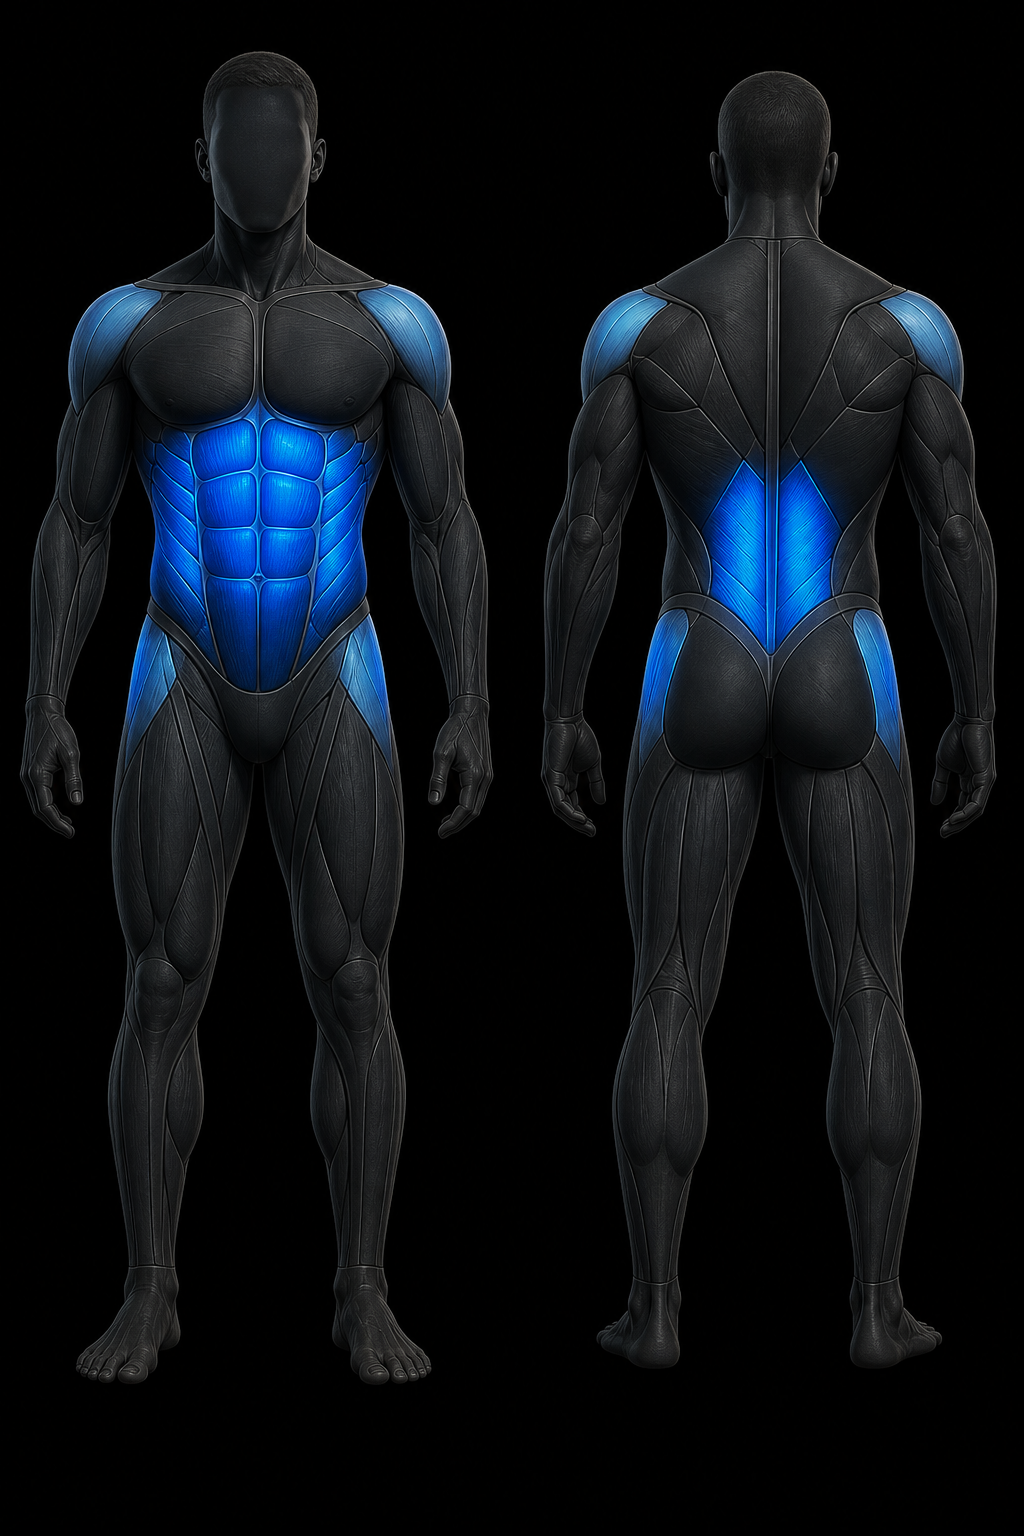
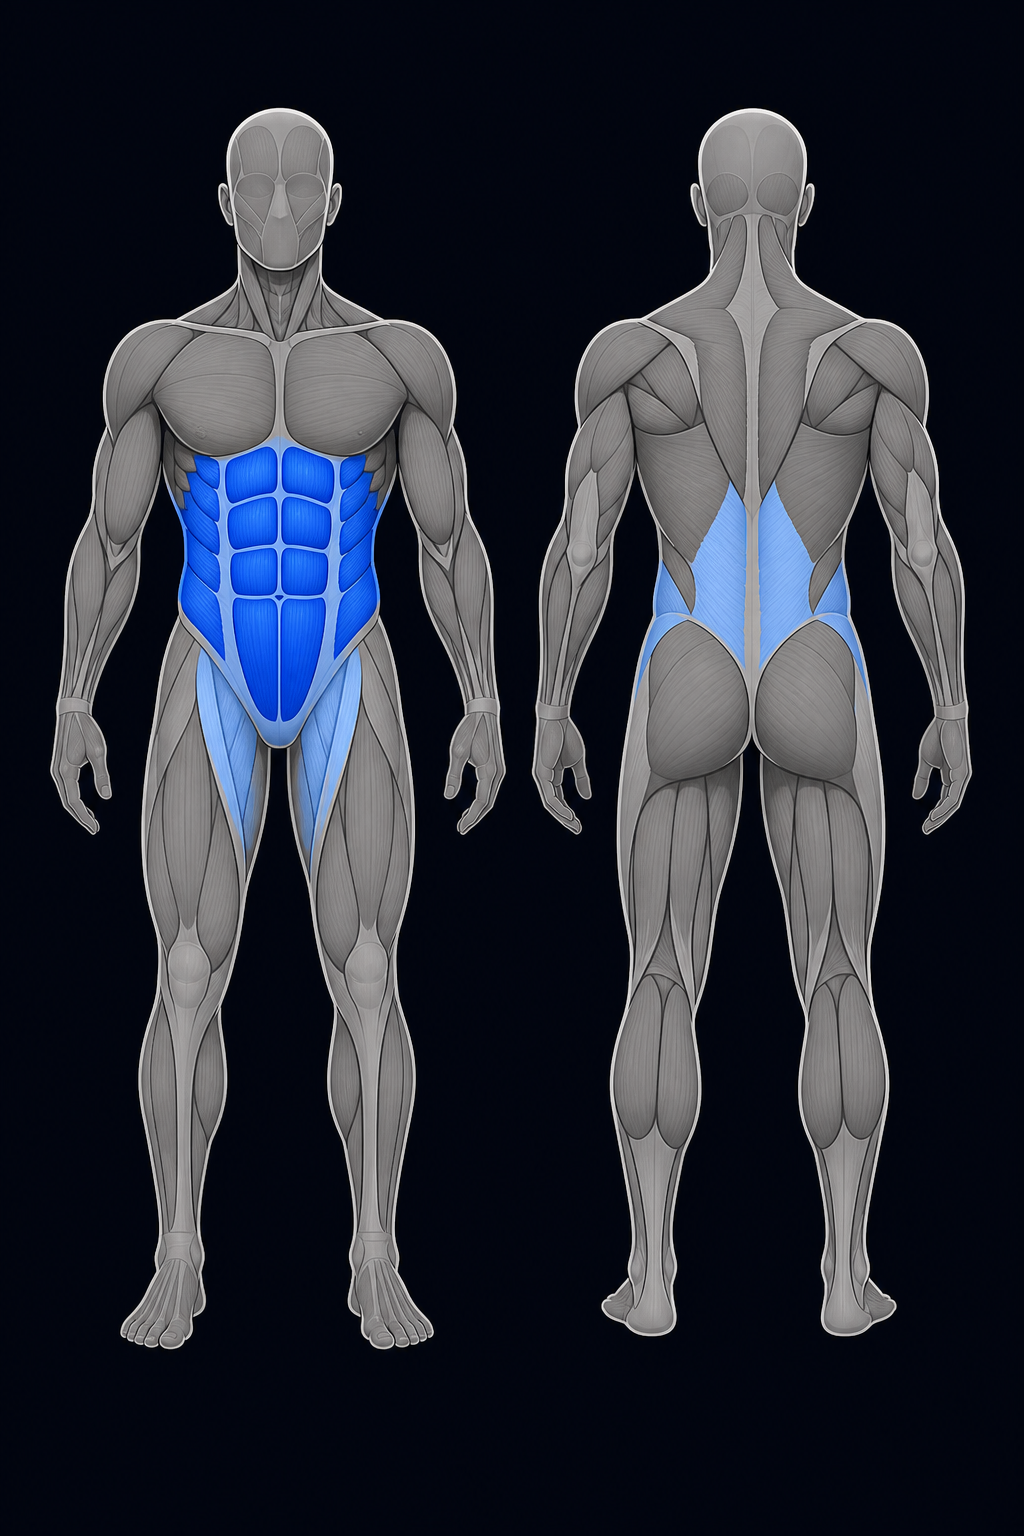
feat(fitcoach): align anatomy maps with premium atlas style

diff --git a/fitcoach-founder-test/index.html b/fitcoach-founder-test/index.html
@@ -24,11 +24,11 @@
       document.querySelector('meta[name="theme-color"]').content = resolved === "dark" ? "#071116" : "#F6F9FB";
     })();
   </script>
-  <link rel="manifest" href="./manifest.webmanifest?v=0419">
-  <link rel="apple-touch-icon" href="./assets/icon-symbio.svg?v=0419">
-  <link rel="icon" href="./assets/icon-symbio.svg?v=0419" type="image/svg+xml">
-  <link rel="stylesheet" href="./v040/styles.css?v=0419">
-  <link rel="stylesheet" href="./v040/premium-redesign.css?v=0419">
+  <link rel="manifest" href="./manifest.webmanifest?v=0420">
+  <link rel="apple-touch-icon" href="./assets/icon-symbio.svg?v=0420">
+  <link rel="icon" href="./assets/icon-symbio.svg?v=0420" type="image/svg+xml">
+  <link rel="stylesheet" href="./v040/styles.css?v=0420">
+  <link rel="stylesheet" href="./v040/premium-redesign.css?v=0420">
   <title>FitCoach v0.4.5</title>
 </head>
 <body>
@@ -50,11 +50,11 @@
   <div id="toast" class="toast" role="status" aria-live="polite"></div>
   <script>
     if ("serviceWorker" in navigator) {
-      navigator.serviceWorker.register("./sw.js?v=0419", { updateViaCache: "none" })
+      navigator.serviceWorker.register("./sw.js?v=0420", { updateViaCache: "none" })
         .then(registration => registration.update())
         .catch(() => {});
     }
   </script>
-  <script type="module" src="./v040/app.js?v=0419"></script>
+  <script type="module" src="./v040/app.js?v=0420"></script>
 </body>
 </html>

diff --git a/fitcoach-founder-test/sw.js b/fitcoach-founder-test/sw.js
@@ -1,14 +1,14 @@
 // FitCoach founder PWA cache. v0.4 owns only the versioned shell/module graph.
-const CACHE = "fitcoach-symbio-v0419";
+const CACHE = "fitcoach-symbio-v0420";
 
 const SHELL_ASSETS = Object.freeze([
   "./",
-  "./index.html?v=0419",
-  "./manifest.webmanifest?v=0419",
-  "./assets/icon-symbio.svg?v=0419",
-  "./v040/styles.css?v=0419",
-  "./v040/premium-redesign.css?v=0419",
-  "./v040/app.js?v=0419",
+  "./index.html?v=0420",
+  "./manifest.webmanifest?v=0420",
+  "./assets/icon-symbio.svg?v=0420",
+  "./v040/styles.css?v=0420",
+  "./v040/premium-redesign.css?v=0420",
+  "./v040/app.js?v=0420",
 ]);
 
 const MODULE_ASSETS = Object.freeze([
@@ -234,12 +234,12 @@ self.addEventListener("fetch", event => {
           caches.open(CACHE).then(cache => cache.put("./", copy)).catch(() => {});
           return response;
         })
-        .catch(() => caches.match("./").then(response => response || caches.match("./index.html?v=0419")))
+        .catch(() => caches.match("./").then(response => response || caches.match("./index.html?v=0420")))
     );
     return;
   }
 
-  const versioned = url.searchParams.get("v") === "0419";
+  const versioned = url.searchParams.get("v") === "0420";
   const moduleAsset = url.pathname.includes("/v040/") && url.pathname.endsWith(".mjs");
   const exerciseAsset = url.pathname.includes("/v040/assets/exercises/");
   const rangeRequest = event.request.headers.has("range");

diff --git a/fitcoach-founder-test/tests/check-bundle.js b/fitcoach-founder-test/tests/check-bundle.js
@@ -5,7 +5,7 @@ const { execFileSync } = require("node:child_process");
 const { pathToFileURL } = require("node:url");
 
 const APP_ROOT = path.resolve(__dirname, "..");
-const GENERATION = "0419";
+const GENERATION = "0420";
 const APP_SCOPE = "https://fitcoach.invalid/fitcoach-founder-test/";
 const corruptionPattern = /[\x00-\x08\x0E-\x1F\uFFFD]/g;
 const failures = [];

diff --git a/fitcoach-founder-test/v040/premium-redesign.css b/fitcoach-founder-test/v040/premium-redesign.css
@@ -1590,10 +1590,6 @@
   border-radius: 13px;
   background: #03070f;
 }
-.generated-anatomy-artwork[data-anatomy-family="lower"] img,
-.generated-anatomy-artwork[data-anatomy-family="hinge"] img {
-  object-fit: cover;
-}
 .generated-anatomy-artwork figcaption {
   padding: 0 7px 4px;
   color: rgba(206, 225, 255, .64);

diff --git a/fitcoach-founder-test/README.md b/fitcoach-founder-test/README.md
@@ -4,12 +4,12 @@ This directory contains historical prototypes plus the current v0.4 preview runt
 
 ## Active browser runtime
 
-FitCoach v0.4.5 is the active runtime (cache generation 0419 carries the range-safe motion playback and AI-generated anatomy surfaces):
+FitCoach v0.4.5 is the active runtime (cache generation 0420 carries the range-safe motion playback and AI-generated anatomy surfaces):
 
-- document shell: `index.html?v=0419`
-- stylesheets: `v040/styles.css?v=0419` and `v040/premium-redesign.css?v=0419`
-- ES-module entry: `v040/app.js?v=0419`
-- service worker cache: `fitcoach-symbio-v0419`
+- document shell: `index.html?v=0420`
+- stylesheets: `v040/styles.css?v=0420` and `v040/premium-redesign.css?v=0420`
+- ES-module entry: `v040/app.js?v=0420`
+- service worker cache: `fitcoach-symbio-v0420`
 - local storage envelope: `fitcoach-v040:<profile>` (currently keeps the legacy local profile key for migration compatibility)
 
 The v0.4 runtime is an ES-module app under `v040/` with these boundaries:
